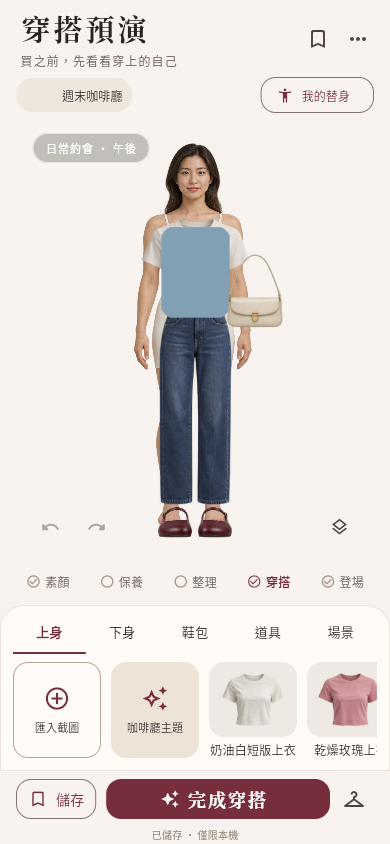
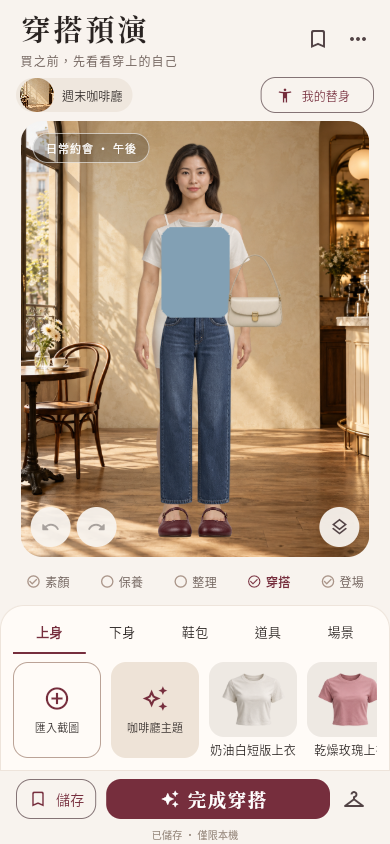
docs: record strict audit and deployed verification [skip ci]

diff --git a/docs/AUDIT_2026-11-04.md b/docs/AUDIT_2026-11-04.md
@@ -18,7 +18,7 @@
 | P2 | 素材標籤只有 10px，副標也偏小 | 素材與副標提升至 12px，保留三尺寸與 1.5 倍字體驗收 |
 | P2 | 結果頁「穿得很像自己」把示範人物描述成使用者本人 | 改為「看看這套搭配」，首次說明明示示範人物、可調身材比例、不生成本人臉部、不預測合身 |
 | P2 | 連續操作時先前成功 Snackbar 可能還在顯示 | 新的結果頁操作先清除舊訊息，避免把上一個成功提示當作目前進度 |
-| 驗證缺口 | 截圖等待只比對完整的「素材載入中」，漏掉父層合併後的語意標籤，可能拍到沙漏 | 改以包含該狀態的語意標籤等待，重新擷取完整載入的實際成品 |
+| 驗證缺口 | 截圖等待只比對完整的「素材載入中」，漏掉父層合併後的語意標籤，可能拍到沙漏 | 改以包含該狀態的語意標籤逐一等待所有載入完成，重新擷取完整載入的實際成品 |
 
 ## 實際驗證
 
@@ -34,3 +34,7 @@
 ## 仍有差距
 
 目前仍是示範人物與獨立 2D 貼圖：服裝不會模擬布料、袖口與肢體遮擋，也不保證在身材極值貼合。鞋子透視已修，但仍需逐一校正各人物的落點。沒有自拍替身、本人像似度或真實合身預測。真機去背品質、權限／分享、70 張樣本與真人研究仍未通過驗收；不因自動化測試增加而把這些標為完成。
+
+## 正式部署
+
+修正版本 5f4f21a 已由 Pages run 41758478608 成功部署至 https://app.uslinkyou.com/ 。此流程包含分析、47 項 Flutter 測試、7 項工具測試、release 編譯與公開 index／main.dart.js 取得檢查。瀏覽器互動驗證仍是本機同版 release，外站受此環境代理限制。

diff --git a/docs/ACCEPTANCE.md b/docs/ACCEPTANCE.md
@@ -97,4 +97,4 @@
 
 ## 2026-11-04 操作稽核
 
-詳見 AUDIT_2026-11-04.md。新增實際控制點、選取工具列、即時單擊、清除／自動儲存互斥、更新保存保護與正面鞋素材；目前 47 項 Flutter 測試及 7 項工具測試通過。更新提示在表單開啟或手勢／匯入／儲存進行中會保留目前視窗，沒有強制重載。正式部署紀錄於完成後補記。
+詳見 AUDIT_2026-11-04.md。新增實際控制點、選取工具列、即時單擊、清除／自動儲存互斥、更新保存保護與正面鞋素材；目前 47 項 Flutter 測試及 7 項工具測試通過。更新提示在表單開啟或手勢／匯入／儲存進行中會保留目前視窗，沒有強制重載。修正版本 5f4f21a 的正式 Pages run 41758478608 已成功，包含公開 index／main.dart.js 取得檢查；互動測試使用本機同版 release。
